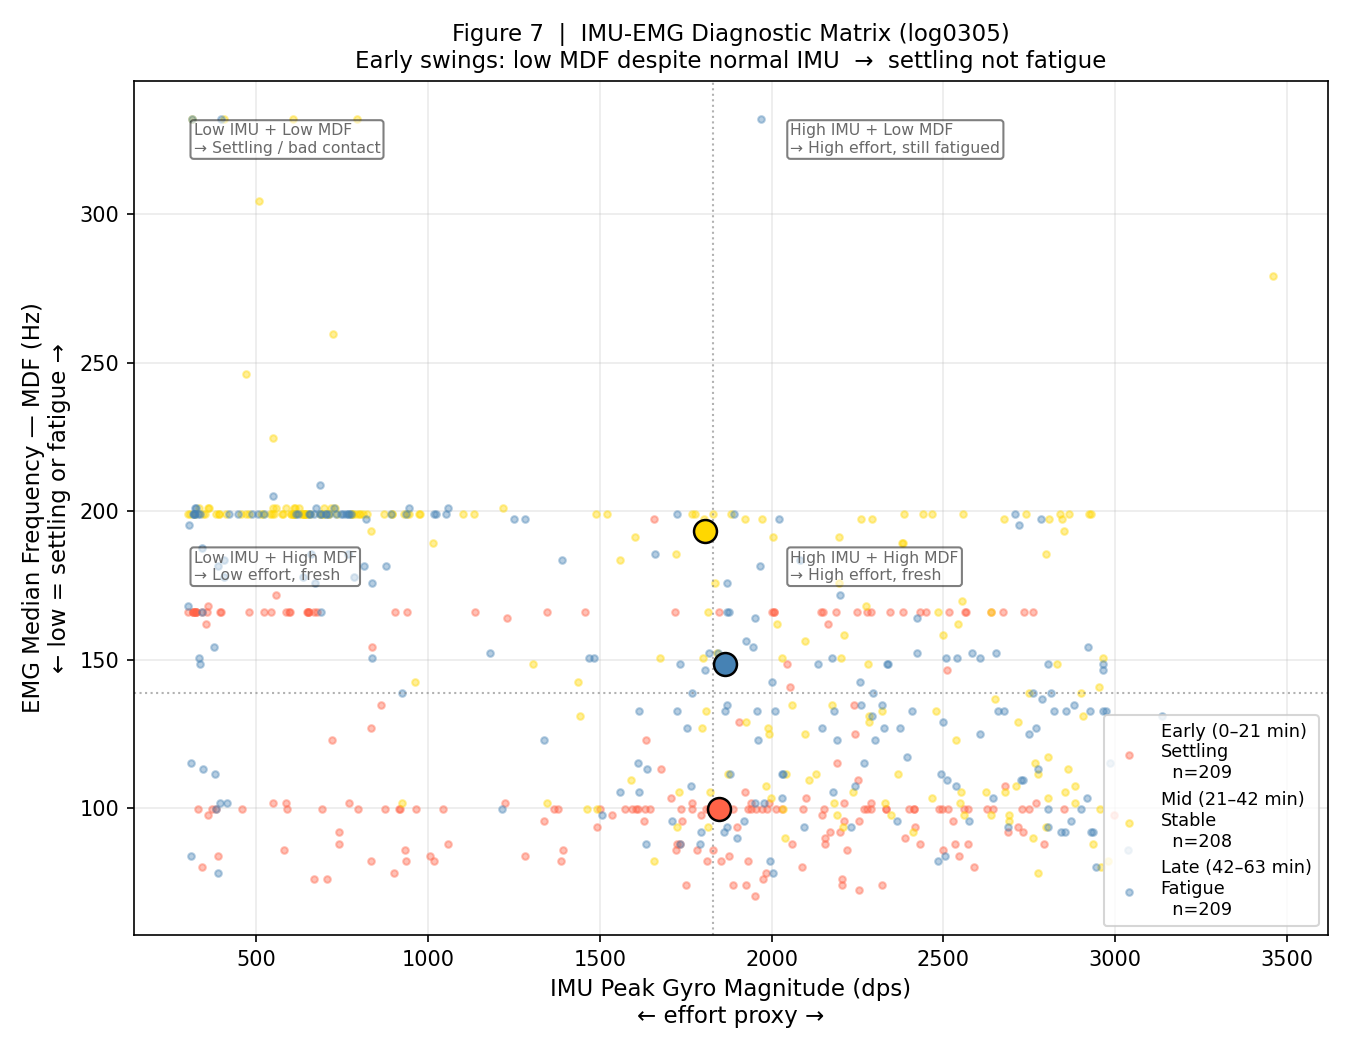
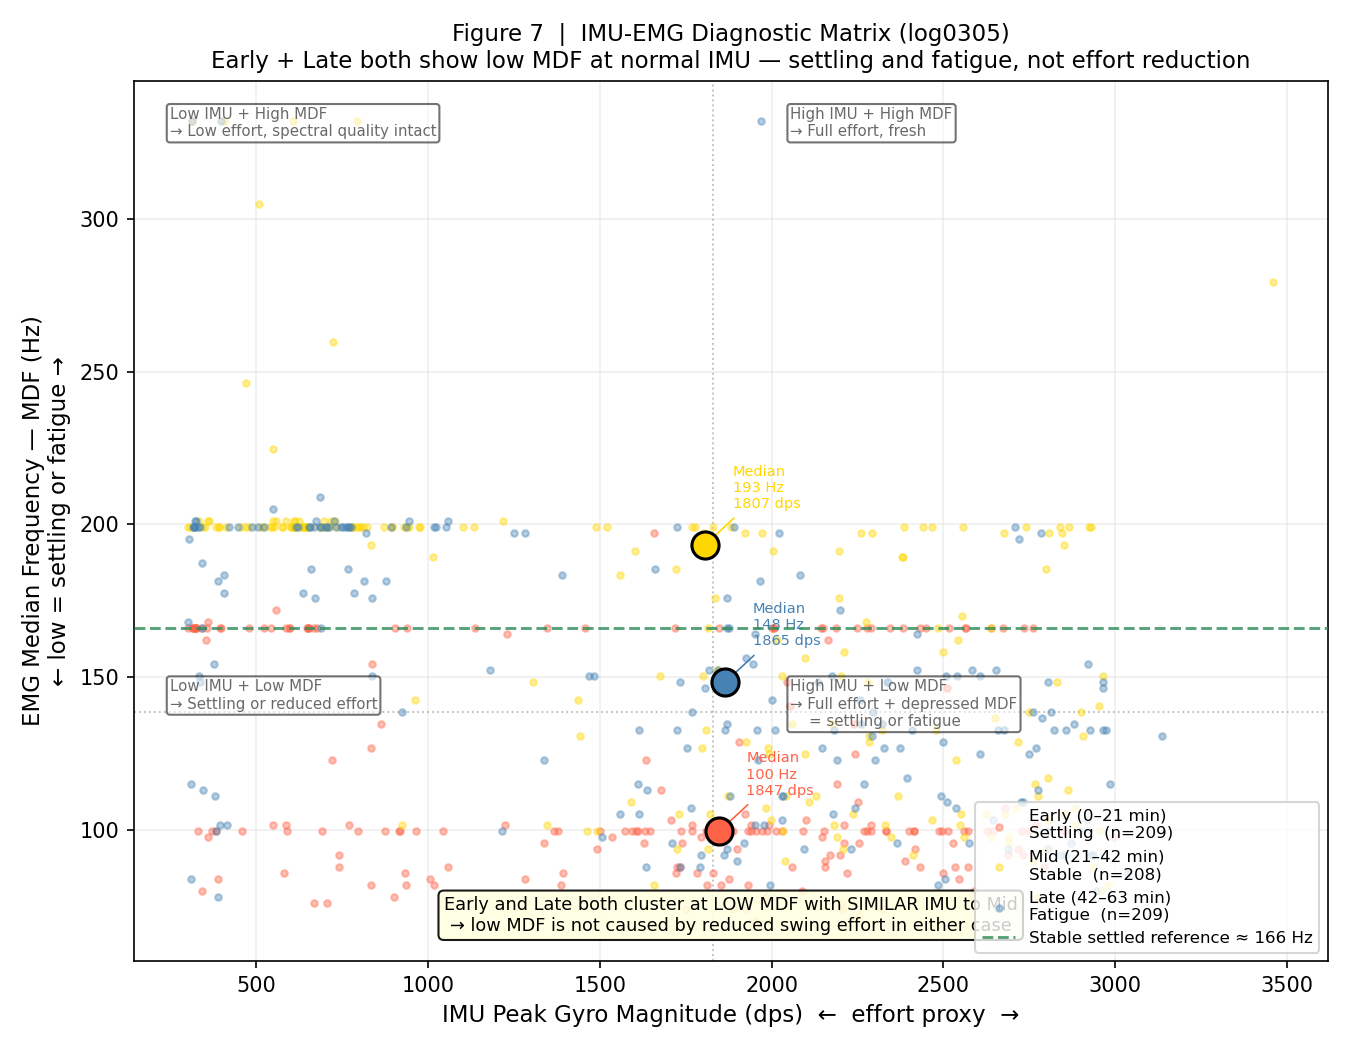
5b done

diff --git a/paper_figures.py b/paper_figures.py
@@ -543,45 +543,63 @@ mdf = df05["mdf"]
 
 # colour by session third
 q1, q2 = t.quantile(1/3), t.quantile(2/3)
-thirds_lbl = ["Early (0–21 min)\nSettling", "Mid (21–42 min)\nStable", "Late (42–63 min)\nFatigue"]
-third_colors = ["tomato", "gold", "steelblue"]
-masks = [t <= q1, (t > q1) & (t <= q2), t > q2]
+thirds_data = [
+    (t <= q1,                "Early (0–21 min)\nSettling",   "tomato"),
+    ((t > q1) & (t <= q2),  "Mid (21–42 min)\nStable",      "gold"),
+    (t > q2,                 "Late (42–63 min)\nFatigue",    "steelblue"),
+]
 
-for mask, lbl, col in zip(masks, thirds_lbl, third_colors):
+for mask, lbl, col in thirds_data:
     ax.scatter(mag[mask], mdf[mask], s=10, alpha=0.40, color=col,
-               label=f"{lbl}\n  n={mask.sum()}", zorder=2)
+               label=f"{lbl}  (n={mask.sum()})", zorder=2)
 
-# median crosshairs per third
-for mask, col in zip(masks, third_colors):
+# median crosshairs per third (filled circles)
+for mask, lbl, col in thirds_data:
     mx, my = mag[mask].median(), mdf[mask].median()
-    ax.plot(mx, my, "o", ms=11, color=col, markeredgecolor="black",
-            markeredgewidth=1.2, zorder=4)
+    ax.plot(mx, my, "o", ms=13, color=col, markeredgecolor="black",
+            markeredgewidth=1.5, zorder=5)
+    ax.annotate(f"Median\n{my:.0f} Hz\n{mx:.0f} dps",
+                xy=(mx, my), xytext=(mx + 80, my + 12),
+                fontsize=7, color=col,
+                arrowprops=dict(arrowstyle="-", color=col, lw=0.8))
 
-# quadrant reference lines
+# stable settled MDF reference
+ax.axhline(166, color="seagreen", linewidth=1.4, linestyle="--", alpha=0.8, zorder=3,
+           label="Stable settled reference ≈ 166 Hz")
+
+# quadrant reference lines at medians of all data
 med_mag = mag.median()
 med_mdf = mdf.median()
-ax.axvline(med_mag, color="gray", linewidth=1.0, linestyle=":", alpha=0.6)
-ax.axhline(med_mdf, color="gray", linewidth=1.0, linestyle=":", alpha=0.6)
+ax.axvline(med_mag, color="gray", linewidth=0.9, linestyle=":", alpha=0.5, zorder=1)
+ax.axhline(med_mdf, color="gray", linewidth=0.9, linestyle=":", alpha=0.5, zorder=1)
 
-# quadrant labels
+# quadrant labels — positioned correctly:
+# y > med_mdf = high MDF (top), y < med_mdf = low MDF (bottom)
+# x < med_mag = low IMU (left),  x > med_mag = high IMU (right)
 for qx, qy, qtxt in [
-    (0.05, 0.95, "Low IMU + Low MDF\n→ Settling / bad contact"),
-    (0.55, 0.95, "High IMU + Low MDF\n→ High effort, still fatigued"),
-    (0.05, 0.45, "Low IMU + High MDF\n→ Low effort, fresh"),
-    (0.55, 0.45, "High IMU + High MDF\n→ High effort, fresh"),
+    (0.03, 0.97, "Low IMU + High MDF\n→ Low effort, spectral quality intact"),
+    (0.55, 0.97, "High IMU + High MDF\n→ Full effort, fresh"),
+    (0.03, 0.32, "Low IMU + Low MDF\n→ Settling or reduced effort"),
+    (0.55, 0.32, "High IMU + Low MDF\n→ Full effort + depressed MDF\n    = settling or fatigue"),
 ]:
-    ax.text(qx, qy, qtxt, transform=ax.transAxes, fontsize=7.5,
-            ha="left" if qx < 0.5 else "left", va="top",
-            color="dimgray",
-            bbox=dict(boxstyle="round,pad=0.2", facecolor="white", alpha=0.5))
+    ax.text(qx, qy, qtxt, transform=ax.transAxes, fontsize=7.2,
+            ha="left", va="top", color="dimgray",
+            bbox=dict(boxstyle="round,pad=0.2", facecolor="white", alpha=0.55))
 
-ax.set_xlabel("IMU Peak Gyro Magnitude (dps)\n← effort proxy →", fontsize=11)
+# key narrative annotation
+ax.text(0.50, 0.03,
+        "Early and Late both cluster at LOW MDF with SIMILAR IMU to Mid\n"
+        "→ low MDF is not caused by reduced swing effort in either case",
+        transform=ax.transAxes, fontsize=8.5, ha="center", va="bottom",
+        bbox=dict(boxstyle="round,pad=0.3", facecolor="lightyellow", alpha=0.90))
+
+ax.set_xlabel("IMU Peak Gyro Magnitude (dps)  ←  effort proxy  →", fontsize=11)
 ax.set_ylabel("EMG Median Frequency — MDF (Hz)\n← low = settling or fatigue →", fontsize=11)
 ax.set_title("Figure 7  |  IMU-EMG Diagnostic Matrix (log0305)\n"
-             "Early swings: low MDF despite normal IMU  →  settling not fatigue",
+             "Early + Late both show low MDF at normal IMU — settling and fatigue, not effort reduction",
              fontsize=11)
-ax.legend(fontsize=8.5, loc="lower right")
-ax.grid(True, alpha=0.25)
+ax.legend(fontsize=8, loc="lower right")
+ax.grid(True, alpha=0.20)
 plt.tight_layout()
 plt.savefig(os.path.join(OUT_DIR, "fig7_imu_emg_diagnostic_matrix.png"), dpi=150)
 plt.close()

diff --git a/paper.md b/paper.md
@@ -308,7 +308,7 @@ This work is, to our knowledge, the first to: (1) quantify forearm electrode set
 | 4 | **Warmup-skip sensitivity bar chart** — −2.6% / +15.2% / −26.2% / +28.1% | fatigue_summary files + confirmed original-pipeline value | ✅ `paper_figures/fig4_warmup_skip_sensitivity.png` |
 | 5 | **Contact quality over session — both sessions.** Two-panel: log0305 (top) + log0303 (bottom). Rolling median, per-third labels, settling zone (0–20 min), segment annotations for log0303. *Caption: Figure 5. Contact quality (RMS / session p90-RMS) over session. Top panel (log0305): early third 0.36 ± 0.28 rises to mid-session peak 0.49 ± 0.47, with late session 0.25 ± 0.32 — consistent with electrode settling early, peak activation mid-session, and fatigue-related amplitude decline late. The trend is not monotone, reflecting that contact quality conflates electrode impedance (settling) and muscle force output (fatigue). The settling zone (0–20 min) overlaps the period of lowest early CQ. Bottom panel (log0303): Segment 1 CQ = 0.26, Segment 2 CQ = 0.59 (Δ = +0.32) — the electrode contact state changed substantially during the 66-min BLE gap, directly supporting the cross-segment artifact interpretation.* | `out0303_v2/swing_features.csv`, `out0305_w20/swing_features.csv` | ✅ `paper_figures/fig5_contact_quality.png` |
 | 6 | **log0303 gap artifact: MDF over full session with annotated BLE gap.** Segment 1 (navy diamonds + rolling median), full session (orange + rolling median), baseline MDF line, segment region labels, drop % summary box. *Caption: Figure 6. log0303 contains two BLE connections separated by a 66-min gap. The full-session analysis compares Segment 1 swings (0–13.5 min) against Segment 2 swings (80–88 min) across this gap, yielding an apparent 28.7% MDF drop. Segment 1 analysed in isolation shows only 4.9% — below any meaningful fatigue threshold. The apparent full-session drop is a cross-segment artifact: the electrode contact state and player condition both changed during the gap, making the comparison physiologically meaningless.* | `out0303_v2/swing_features.csv`, `out0303_seg1/swing_features.csv` | ✅ `paper_figures/fig6_log0303_gap_artifact.png` |
-| 7 | IMU-EMG diagnostic matrix (2×2 scatter) | `out0305_w20` | ✅ `paper_figures/fig7_imu_emg_diagnostic_matrix.png` |
+| 7 | **IMU-EMG diagnostic matrix — imu_peak_mag vs MDF, coloured by session third.** Median crosshairs per third with annotations, 166 Hz stable reference, corrected quadrant labels, key narrative box. *Caption: Figure 7. Scatter of IMU swing intensity (x-axis, effort proxy) vs MDF (y-axis) for all 626 swings in log0305, coloured by session third. Early (tomato) and Late (blue) swings both cluster at lower MDF than Mid (gold), despite similar IMU intensity across all three thirds. This confirms that neither the early MDF suppression (electrode settling) nor the late MDF decline (fatigue) is caused by reduced swing effort — the IMU is flat while MDF varies.* | `out0305_w20/swing_features.csv` | ✅ `paper_figures/fig7_imu_emg_diagnostic_matrix.png` |
 | 8 | Full-window MDF vs. pre-impact MDF comparison | log0305 + future impact-risk/pre-impact analysis | 🔮 Future / Paper 2 |
 
 Canonical figures have been regenerated by the rewritten `paper_figures.py` into `paper_figures/`. The directory still contains older draft PNGs from previous runs; use only the canonical files listed above for the paper.

diff --git a/todo.md b/todo.md
@@ -19,7 +19,7 @@
 | 3 | 3 | ✅ IMU consistency plot | Validates fatigue vs reduced effort | Paper 1 |
 | 4 | 4 | ✅ Contact quality metric plot | Supports proposed EMG quality monitor | Paper 1 |
 | 5 | 5 | ✅ `log0303` gap artifact visualization | Shows BLE gap/cross-segment artifact | Paper 1 |
-| 6 | 5b | IMU-EMG diagnostic matrix (Figure 7) | 2×2 IMU vs EMG quality scatter | Paper 1 |
+| 6 | 5b | ✅ IMU-EMG diagnostic matrix (Figure 7) | 2×2 IMU vs EMG quality scatter | Paper 1 |
 | 7 | 6 | Rest/noise-floor tracker | Strengthens contact/settling argument | Paper 1 / Paper 2 |
 | 8 | 7 | Robust MDF outlier filtering | Handles transient artifacts | Paper 1 / Paper 2 |
 | 9 | 8 | Early/mid/late PSD comparison | Explains MDF mechanism | Paper 1 |
@@ -988,8 +988,8 @@ Do first.
 ✅ 2.  Electrode settling MDF/RMS curve
 ✅ 3.  IMU consistency plot
 ✅ 4.  Contact quality metric plot
-   5.  log0303 gap artifact plot
-   5b. IMU-EMG diagnostic matrix (Figure 7)
+✅ 5.  log0303 gap artifact plot
+✅ 5b. IMU-EMG diagnostic matrix (Figure 7)
 ```
 
 Expected deliverable:
